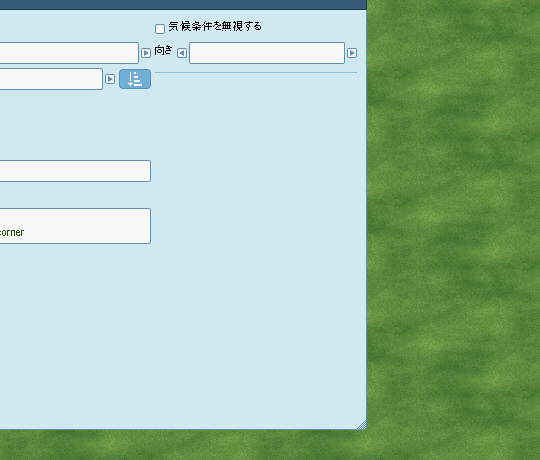
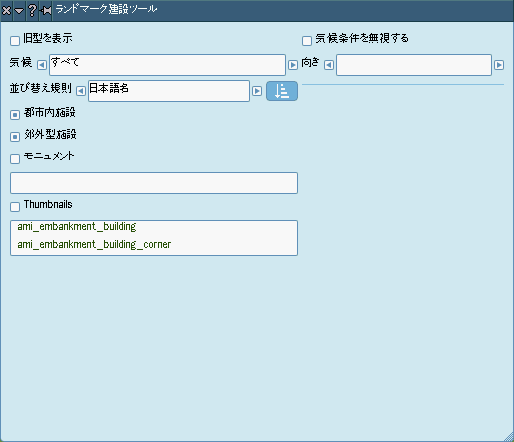
記録の画像の切り抜きのずれとカーソルの写り込みを撮り直す (#189)

diff --git a/docs/records/2026-11-27_ami189-screens/toolbar.py b/docs/records/2026-11-27_ami189-screens/toolbar.py
@@ -7,6 +7,8 @@ import os
 import sys
 import time
 
+from PIL import Image
+
 sys.path.insert(0, os.path.abspath("tools"))
 from game import Game  # noqa: E402
 
@@ -27,6 +29,9 @@ with Game(env, "flat_512_left_v64", port, build=build) as g:
         shot(g, "toolbar_" + name)
     g.sq("gui.close_all_windows(); gui.open_dialog_tool(21); return 1", player_nr=1)
     shot(g, "curiosity")
+    wins = [part for part in g.sq(WINDOWS).split(";") if part]
+    x, y, w, h = (int(v) for v in wins[-1].split(",bounds=")[1].split(",")[0].split("/"))  # 窓の画面の上の枠
+    Image.open(os.path.join(out, "curiosity.png")).crop((x, y, x + w, y + h)).save(os.path.join(out, "curiosity_window.png"))
     g.sq("gui.close_all_windows(); gui.click(552, 24); return 1")
     shot(g, "special")
     windows = g.sq(WINDOWS)

diff --git a/docs/records/2026-11-27_ami189-screens/montage.py b/docs/records/2026-11-27_ami189-screens/montage.py
@@ -107,7 +107,7 @@ sheet("8_toolbar.png", [
     ("編集（公共のプレーヤー。左から 5 つ目が足した名所の窓）", window("toolbar_edit", 1)),
     ("上の帯（モノレールの次がリニア）", top),
 ], cols=1)
-d = Image.open(os.path.join(src, "toolbar/curiosity.png")).convert("RGB").crop((400, 70, 940, 530))
+d = Image.open(os.path.join(src, "toolbar/curiosity_window.png")).convert("RGB")
 d.save(os.path.join(out, "10_curiosity.png"), optimize=True)
 sheet("9_catenary_missing.png", [
     ("架線が道路の区間と車庫だけ", crop("nocat/nocat2_list.png", (0, 100, 1600, 900))),
